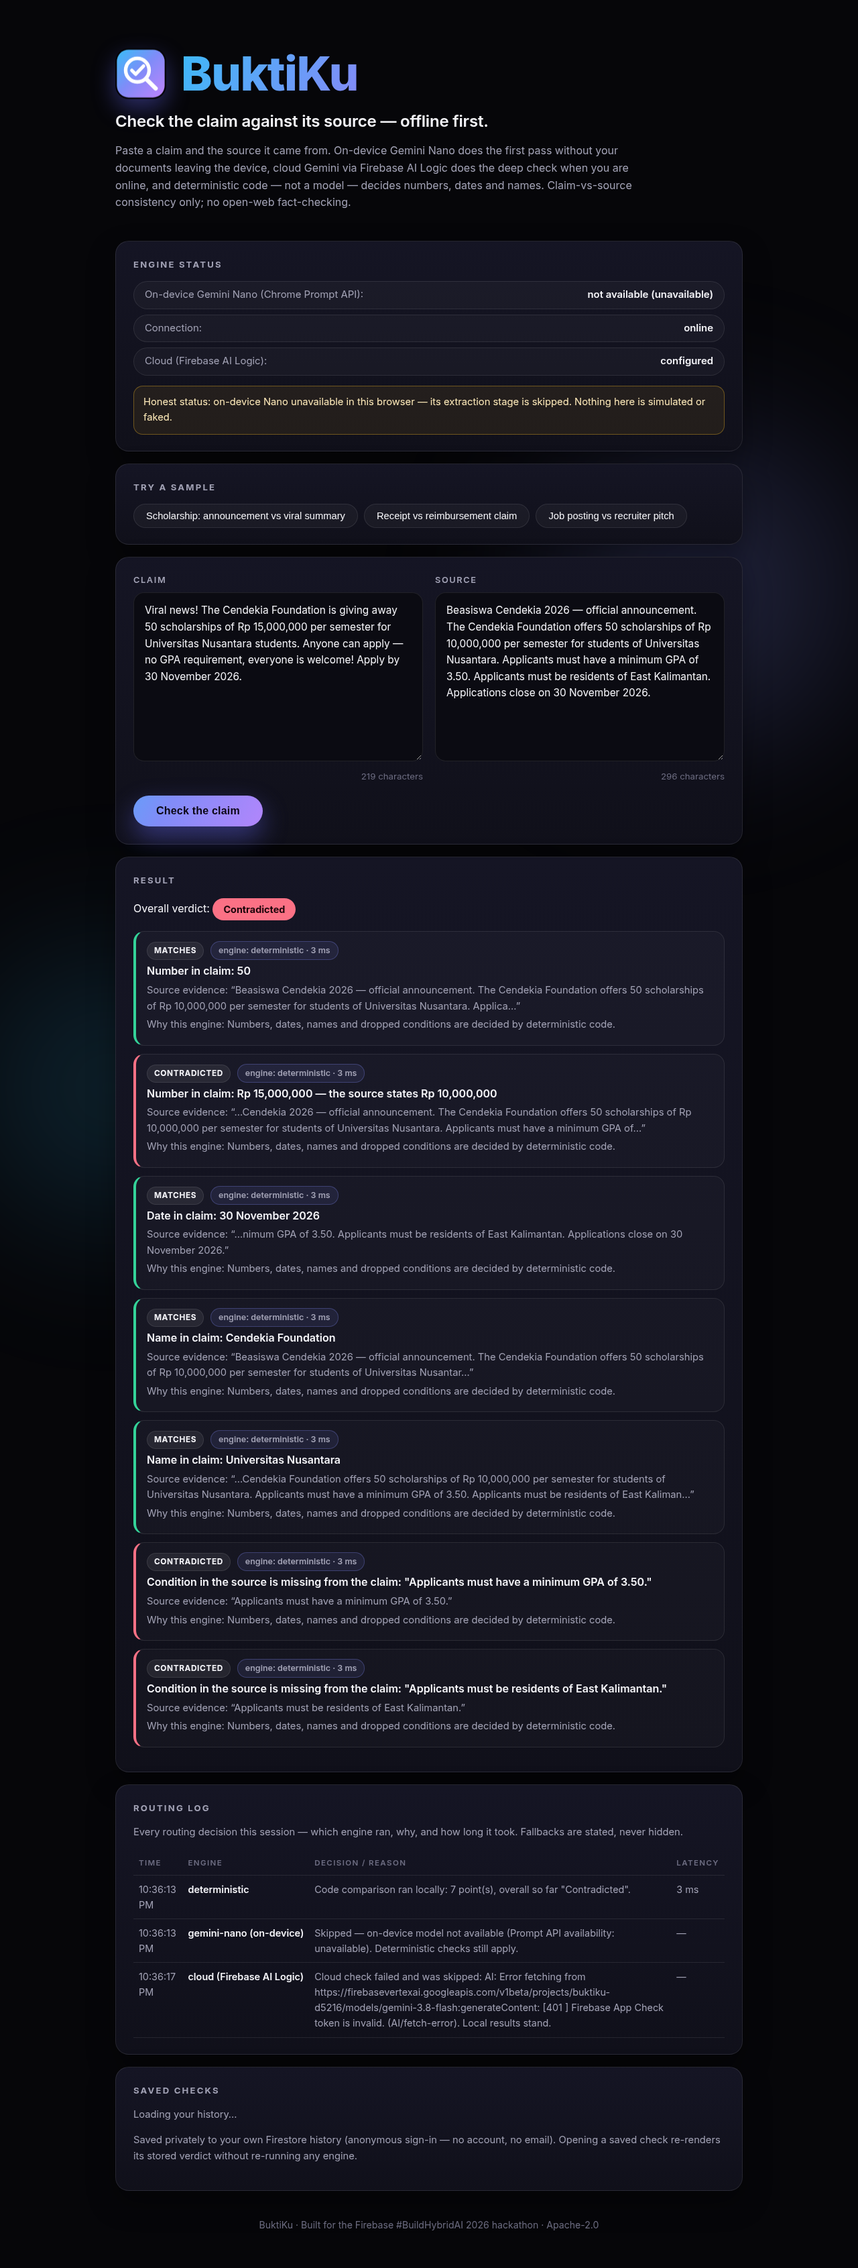
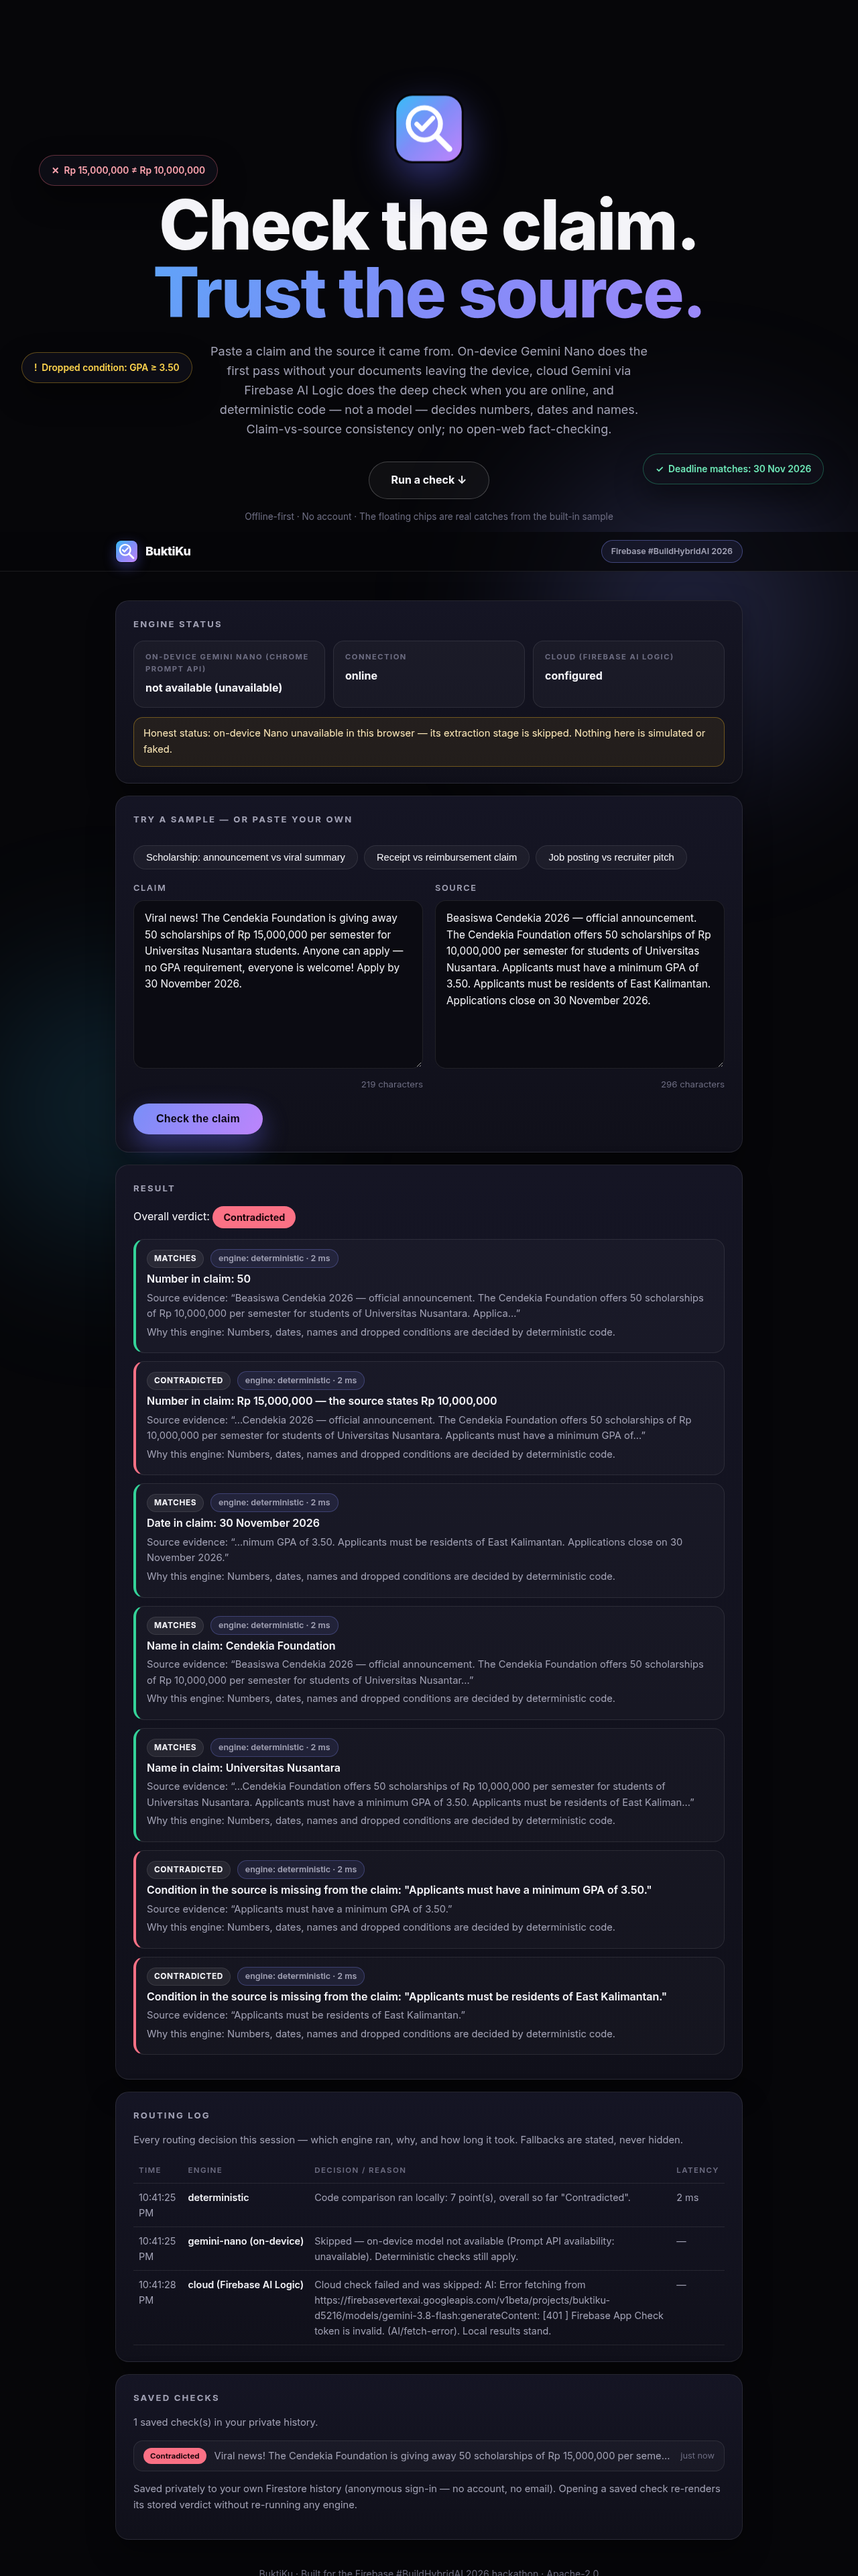
Apply the MotionSites composition, not just its palette
Rev's correction: the redesign borrowed the style tokens but the page
was still a plain stacked-form layout. Now it is composed like the
reference: sticky glass nav, full-viewport hero (giant two-line
headline, flowing gradient line, floating verdict chips with pointer
parallax — real catches from the built-in sample), engine status as
glass tiles, and the checker as a gradient-bordered glowing console.
All element IDs and JS hooks preserved; tests 17/17.

Changed region(s): [[0.125, 0.0, 0.875, 1.0]]

diff --git a/public/styles.css b/public/styles.css
@@ -79,50 +79,152 @@ body::after {
 }
 .wrap { max-width: 980px; margin: 0 auto; padding: 0 22px; }
 
-/* ------------------------------------------------------------- header */
-.site-header {
-  padding: 72px 0 26px;
-  text-align: left;
+/* ---------------------------------------------------------------- nav */
+.nav {
+  position: sticky;
+  top: 0;
+  z-index: 50;
+  background: rgba(6, 6, 9, .72);
+  backdrop-filter: blur(14px);
+  -webkit-backdrop-filter: blur(14px);
+  border-bottom: 1px solid var(--line);
+}
+.nav-in {
+  display: flex; align-items: center; justify-content: space-between;
+  padding-top: 12px; padding-bottom: 12px;
+}
+.nav-brand {
+  display: inline-flex; align-items: center; gap: 11px;
+  font-weight: 800; font-size: 1.12rem; letter-spacing: -.3px; color: var(--ink);
+}
+.nav-brand img { border-radius: 9px; box-shadow: 0 6px 18px rgba(99, 102, 241, .35); }
+.nav-pill {
+  font-size: .78rem; font-weight: 600; color: var(--muted);
+  border: 1px solid rgba(129, 140, 248, .40);
+  background: rgba(129, 140, 248, .10);
+  border-radius: 999px;
+  padding: 6px 14px;
+  white-space: nowrap;
+}
+@media (max-width: 560px) { .nav-pill { display: none; } }
+
+/* --------------------------------------------------------------- hero */
+.hero {
   position: relative;
+  min-height: 86vh;
+  display: grid;
+  place-items: center;
+  text-align: center;
+  padding: 84px 0 96px;
+  overflow: hidden;
 }
-.brand {
-  display: flex; align-items: center; gap: 22px;
-  margin-bottom: 14px; flex-wrap: wrap;
-  animation: fade-up .8s cubic-bezier(.22, .8, .32, 1) both;
+.hero-in { position: relative; z-index: 2; animation: fade-up .9s cubic-bezier(.22, .8, .32, 1) both; }
+.hero-logo {
+  width: 104px; height: 104px;
+  border-radius: 27px;
+  box-shadow: 0 24px 60px rgba(99, 102, 241, .45);
+  margin-bottom: 30px;
+  animation: pop-in .8s cubic-bezier(.22, .8, .32, 1) both, float-soft 7s ease-in-out 1.1s infinite;
 }
-.brand .logo {
-  width: 76px; height: 76px;
-  border-radius: 20px;
-  box-shadow: 0 14px 34px rgba(99, 102, 241, .40);
-  flex: none;
-  animation: pop-in .7s cubic-bezier(.22, .8, .32, 1) both, float-soft 7s ease-in-out 1s infinite;
+.hero-title {
+  margin: 0 0 22px;
+  font-size: clamp(3.1rem, 9.5vw, 6.4rem);
+  font-weight: 850;
+  letter-spacing: -2.5px;
+  line-height: .99;
+  color: var(--ink);
 }
-.site-header h1 {
-  margin: 0;
-  font-size: clamp(2.9rem, 7vw, 4.4rem);
-  font-weight: 800;
-  letter-spacing: -1.5px;
-  line-height: 1.02;
+.grad-text {
   background: var(--grad);
   background-size: 220% 220%;
   -webkit-background-clip: text;
   background-clip: text;
   color: transparent;
-  display: inline-block;
   animation: gradient-flow 9s ease infinite;
 }
-.tagline {
-  font-size: clamp(1.15rem, 2.6vw, 1.5rem);
-  margin: 0 0 12px;
+.hero-sub {
+  color: var(--muted);
+  max-width: 660px;
+  margin: 0 auto 34px;
+  font-size: clamp(1rem, 1.6vw, 1.13rem);
+  animation: fade-up .9s cubic-bezier(.22, .8, .32, 1) .15s both;
+}
+.hero-cta {
+  display: flex; flex-direction: column; align-items: center; gap: 16px;
+  animation: fade-up .9s cubic-bezier(.22, .8, .32, 1) .28s both;
+}
+.btn-ghost {
+  display: inline-block;
+  color: var(--ink);
+  text-decoration: none;
+  font-weight: 700;
+  border: 1px solid rgba(255, 255, 255, .22);
+  background: rgba(255, 255, 255, .04);
+  border-radius: 999px;
+  padding: 14px 32px;
+  transition: border-color .25s, background .25s, transform .25s;
+}
+.btn-ghost:hover {
+  border-color: rgba(129, 140, 248, .65);
+  background: var(--grad-soft);
+  transform: translateY(-2px);
+}
+.hero-note { color: var(--faint); font-size: .85rem; }
+
+/* Floating verdict chips — real catches from the built-in sample. */
+.chip {
+  position: absolute;
+  z-index: 1;
+  font-size: .86rem;
   font-weight: 600;
   color: var(--ink);
-  letter-spacing: -.2px;
-  animation: fade-up .8s cubic-bezier(.22, .8, .32, 1) .12s both;
+  background: rgba(16, 16, 26, .72);
+  border: 1px solid var(--line);
+  border-radius: 999px;
+  padding: 11px 18px;
+  box-shadow: 0 18px 44px rgba(0, 0, 0, .45);
+  backdrop-filter: blur(8px);
+  -webkit-backdrop-filter: blur(8px);
+  white-space: nowrap;
+  will-change: translate, transform;
 }
-.sub {
-  color: var(--muted); max-width: 780px; margin: 0; font-size: 1rem;
-  animation: fade-up .8s cubic-bezier(.22, .8, .32, 1) .22s both;
+.chip-a { top: 21%; left: 4.5%; color: #fda4af; border-color: rgba(251, 113, 133, .35); animation: float-soft 8s ease-in-out infinite; }
+.chip-b { bottom: 19%; right: 4%; color: #6ee7b7; border-color: rgba(52, 211, 153, .35); animation: float-soft 10s ease-in-out .8s infinite; }
+.chip-c { top: 57%; left: 2.5%; color: #fcd34d; border-color: rgba(251, 191, 36, .35); animation: float-soft 11s ease-in-out .4s infinite; }
+@media (max-width: 1150px) { .chip { display: none; } }
+
+/* --------------------------------------------------------------- tiles */
+.tiles { display: grid; grid-template-columns: repeat(3, 1fr); gap: 12px; }
+@media (max-width: 720px) { .tiles { grid-template-columns: 1fr; } }
+.tile {
+  background: rgba(255, 255, 255, .03);
+  border: 1px solid var(--line);
+  border-radius: 16px;
+  padding: 15px 17px;
 }
+.tile-label {
+  display: block;
+  font-size: .7rem; font-weight: 700;
+  text-transform: uppercase; letter-spacing: 1.5px;
+  color: var(--faint);
+  margin-bottom: 6px;
+}
+.tile strong { font-size: 1rem; font-weight: 650; color: var(--ink); }
+
+/* ------------------------------------------------------------- console */
+.console {
+  border: 1px solid transparent;
+  background:
+    linear-gradient(180deg, var(--card-2), var(--card)) padding-box,
+    linear-gradient(140deg, rgba(56, 189, 248, .55), rgba(129, 140, 248, .28) 45%, rgba(192, 132, 252, .55)) border-box;
+  box-shadow: 0 30px 80px rgba(0, 0, 0, .5), 0 0 90px rgba(99, 102, 241, .13);
+}
+.console-head {
+  display: flex; align-items: center; justify-content: space-between;
+  gap: 14px; flex-wrap: wrap;
+  margin-bottom: 18px;
+}
+.console-head h2 { margin: 0; }
 
 /* --------------------------------------------------------------- card */
 .card {

diff --git a/public/index.html b/public/index.html
@@ -9,40 +9,63 @@
 <link rel="icon" type="image/svg+xml" href="logo.svg">
 </head>
 <body>
-<header class="site-header">
-  <div class="wrap">
-    <div class="brand">
-      <img class="logo" src="logo.svg" alt="BuktiKu logo" width="76" height="76">
-      <h1>BuktiKu</h1>
-    </div>
-    <p class="tagline">Check the claim against its source — offline first.</p>
-    <p class="sub">
+
+<nav class="nav">
+  <div class="wrap nav-in">
+    <span class="nav-brand">
+      <img src="logo.svg" alt="" width="34" height="34">
+      <span>BuktiKu</span>
+    </span>
+    <span class="nav-pill">Firebase #BuildHybridAI 2026</span>
+  </div>
+</nav>
+
+<header class="hero">
+  <div class="wrap hero-in">
+    <img class="hero-logo" src="logo.svg" alt="BuktiKu logo" width="104" height="104">
+    <h1 class="hero-title">Check the claim.<br><span class="grad-text">Trust the source.</span></h1>
+    <p class="hero-sub">
       Paste a claim and the source it came from. On-device Gemini Nano does the
       first pass without your documents leaving the device, cloud Gemini via
       Firebase AI Logic does the deep check when you are online, and
       deterministic code — not a model — decides numbers, dates and names.
       Claim-vs-source consistency only; no open-web fact-checking.
     </p>
+    <div class="hero-cta">
+      <a class="btn-ghost" href="#checker">Run a check ↓</a>
+      <span class="hero-note">Offline-first · No account · The floating chips are real catches from the built-in sample</span>
+    </div>
   </div>
+  <div class="chip chip-a" aria-hidden="true">✕&nbsp; Rp 15,000,000 ≠ Rp 10,000,000</div>
+  <div class="chip chip-b" aria-hidden="true">✓&nbsp; Deadline matches: 30 Nov 2026</div>
+  <div class="chip chip-c" aria-hidden="true">!&nbsp; Dropped condition: GPA ≥ 3.50</div>
 </header>
 
 <main class="wrap">
   <section class="card" aria-labelledby="status-h">
     <h2 id="status-h">Engine status</h2>
-    <ul class="status-list">
-      <li>On-device Gemini Nano (Chrome Prompt API): <strong id="st-nano">detecting…</strong></li>
-      <li>Connection: <strong id="st-online">…</strong></li>
-      <li>Cloud (Firebase AI Logic): <strong id="st-cloud">…</strong></li>
-    </ul>
+    <div class="tiles">
+      <div class="tile">
+        <span class="tile-label">On-device Gemini Nano (Chrome Prompt API)</span>
+        <strong id="st-nano">detecting…</strong>
+      </div>
+      <div class="tile">
+        <span class="tile-label">Connection</span>
+        <strong id="st-online">…</strong>
+      </div>
+      <div class="tile">
+        <span class="tile-label">Cloud (Firebase AI Logic)</span>
+        <strong id="st-cloud">…</strong>
+      </div>
+    </div>
     <p id="fallback-note" class="note" hidden></p>
   </section>
 
-  <section class="card">
-    <h2>Try a sample</h2>
-    <div id="samples" class="sample-row"></div>
-  </section>
-
-  <section class="card">
+  <section class="card console" id="checker">
+    <div class="console-head">
+      <h2>Try a sample — or paste your own</h2>
+      <div id="samples" class="sample-row"></div>
+    </div>
     <div class="grid">
       <div>
         <label for="claim">Claim</label>

diff --git a/public/app.js b/public/app.js
@@ -200,6 +200,28 @@ async function persistCheck(claim, source, result) {
 loadHistory();
 updateCounts();
 
+// ------------------------------------------------- hero chip parallax
+// The floating verdict chips drift against the pointer. Uses the CSS
+// `translate` property so it composes with their float animation.
+// Fine pointers only, and never under reduced-motion.
+{
+  const hero = document.querySelector('.hero');
+  const chips = document.querySelectorAll('.chip');
+  const fine = window.matchMedia('(pointer: fine)').matches;
+  const calm = window.matchMedia('(prefers-reduced-motion: reduce)').matches;
+  if (hero && chips.length && fine && !calm) {
+    hero.addEventListener('pointermove', e => {
+      const r = hero.getBoundingClientRect();
+      const x = (e.clientX - r.left) / r.width - 0.5;
+      const y = (e.clientY - r.top) / r.height - 0.5;
+      chips.forEach((c, i) => {
+        const d = (i + 1) * 8;
+        c.style.translate = `${(-x * d).toFixed(1)}px ${(-y * d).toFixed(1)}px`;
+      });
+    });
+  }
+}
+
 // ------------------------------------------------------- scroll reveal
 // Cards fade/rise in as they enter the viewport. The hidden state is
 // only ever applied from here, so a no-JS visit sees everything.
